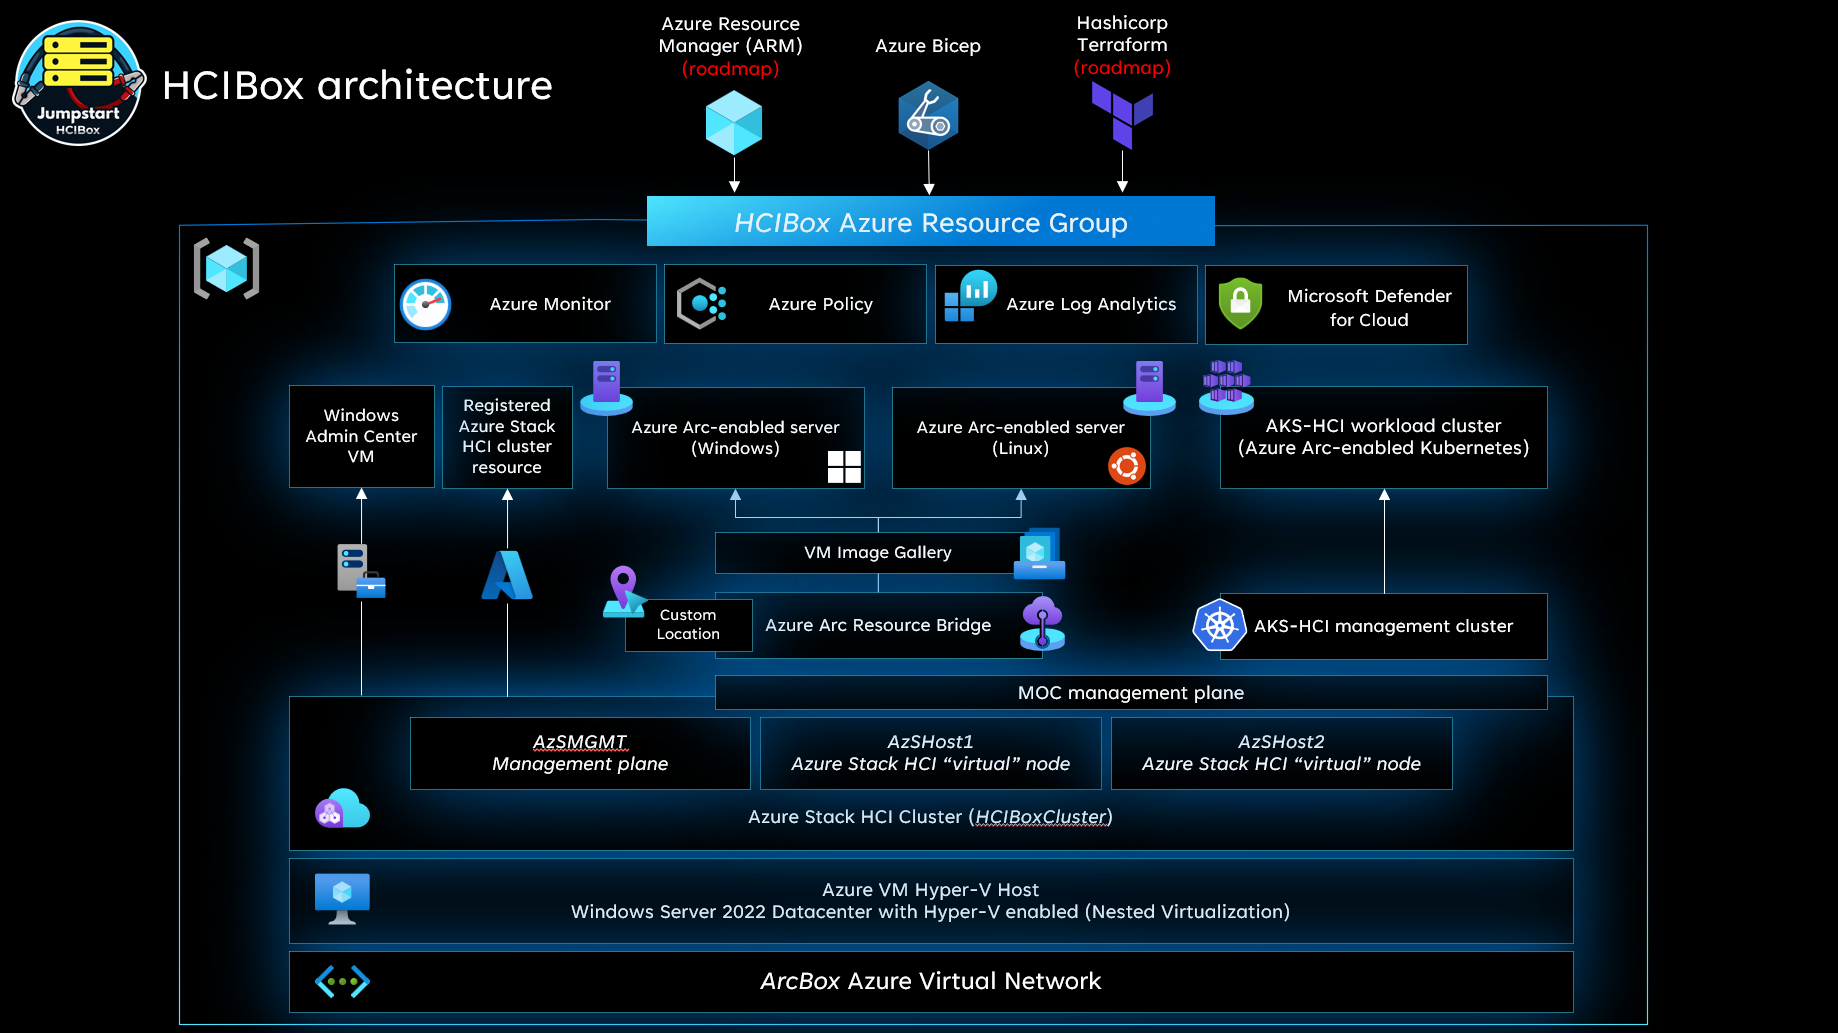
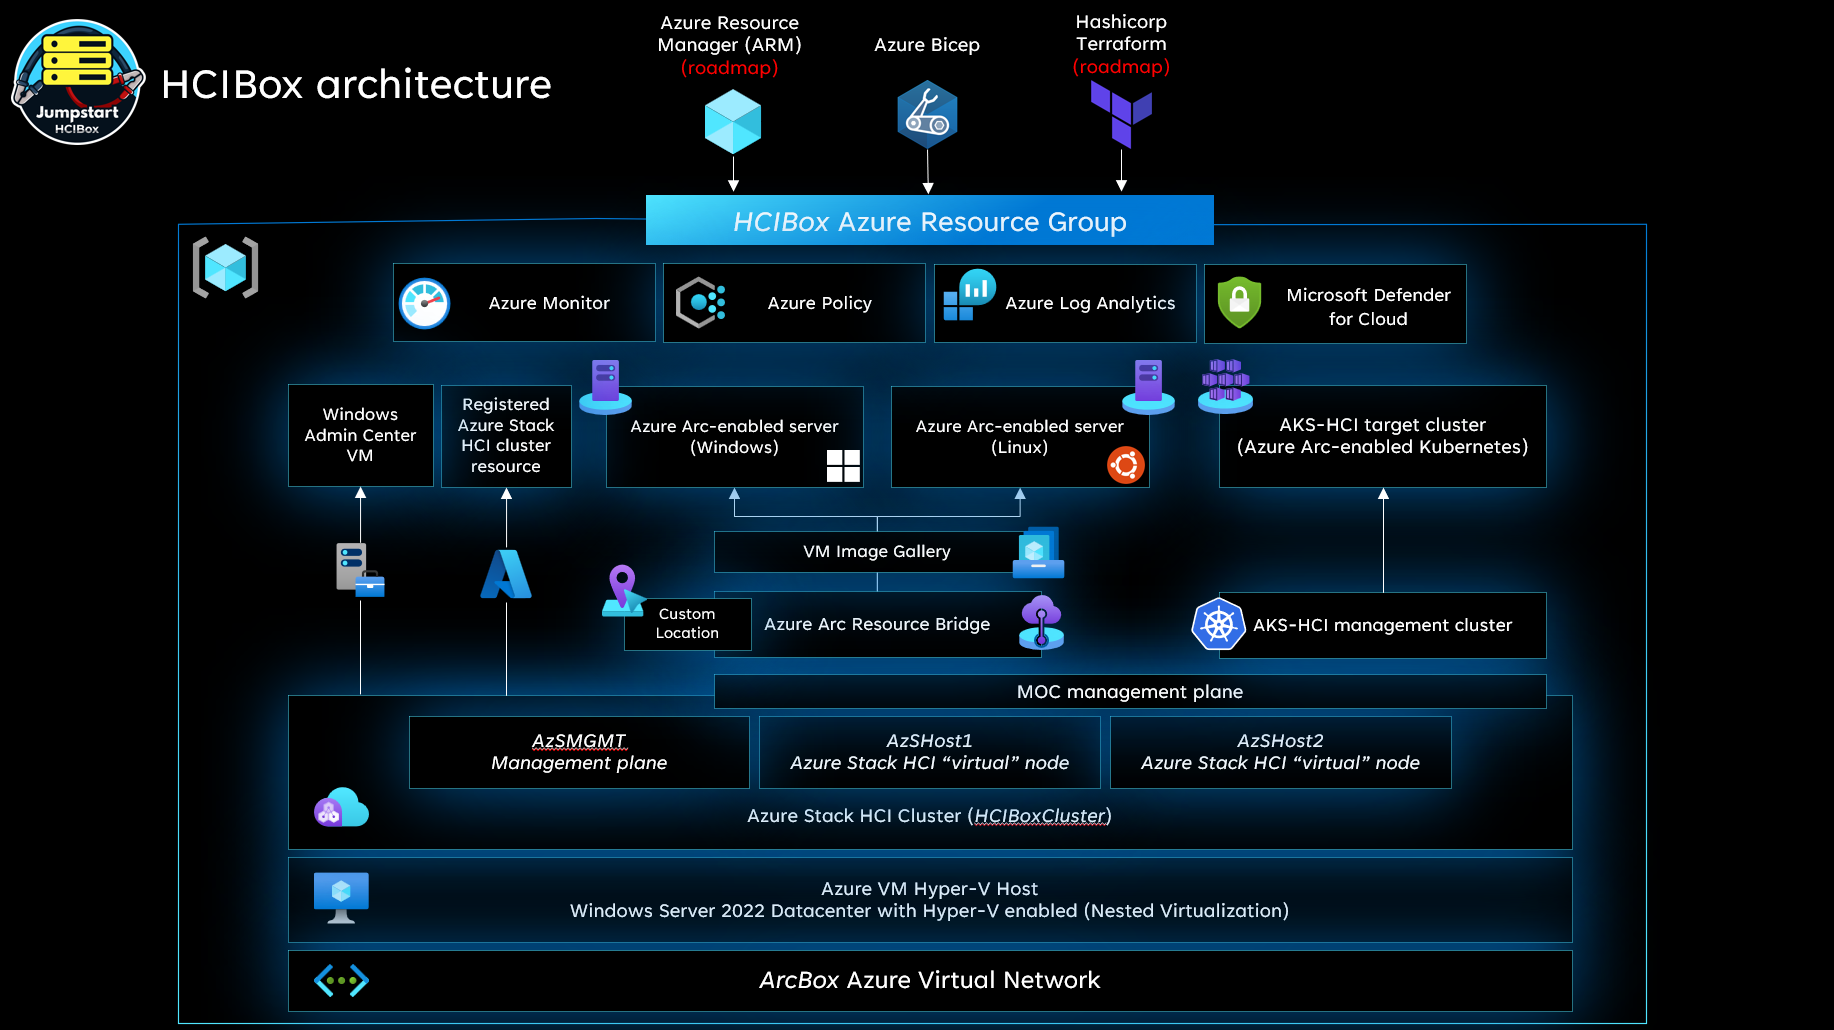
docs and fixes

diff --git a/docs/azure_stack_hci/hcibox/_index.md b/docs/azure_stack_hci/hcibox/_index.md
@@ -23,25 +23,21 @@ HCIBox is a turnkey solution that provides a complete sandbox for exploring Azur
 
 ### 2-node Azure Stack HCI cluster
 
-HCIBox automatically provisions and configures a two-node Azure Stack HCI cluster. HCIBox simulates physical hardware by using nested virtualization with Hyper-V running on an Azure Virtual Machine. This Hyper-V host provisions three guest virtual machines: one Hyper-V host (AzSMGMT) and two Azure Stack HCI nodes (AzSHost1, AzSHost2)
+HCIBox automatically provisions and configures a two-node Azure Stack HCI cluster. HCIBox simulates physical hardware by using nested virtualization with Hyper-V running on an Azure Virtual Machine. This Hyper-V host provisions three guest virtual machines: two Azure Stack HCI nodes (AzSHost1, AzSHost2), and one nested Hyper-V host (AzSMGMT). AzSMGMT itself hosts three guest VMs: a Windows Admin Center gateway server, a domain controller, and a Routing and Remote Access Server acting as a BGP router (RRAS).
 
 ![HCIBox nested virtualization](./nested_virtualization.png)
 
+### Azure Arc Resource BridgeHybrid Virtual Machine Management
+
+HCIBox installs and configures Azure Arc Resource Bridge. This allows full virtual machine lifecycle management from Azure portal or CLI. As part of this configuration, HCIBox also deploys two gallery images (Windows Server 2019 and Ubuntu). 
+
+![HCIBox nested virtualization](./arc_resource_bridge.png)
+
 ### AKS on HCI
 
-<img src="./k8s.png" width="250" alt="K8s diagram">
+HCIBox includes Azure Kubernetes Services on HCI (AKS-HCI). As part of the deployment automation, HCIBox configures AKS-HCI infrastructure including a management cluster. It then creates a target, or "workload", cluster (HCIBox-AKS-$randomguid).
 
-ArcBox deploys one single-node Rancher K3s cluster running on an Azure virtual machine. This cluster is then connected to Azure as an Azure Arc-enabled Kubernetes resource (_ArcBox-K3s_).
-
-### Azure Arc-enabled data services
-
-ArcBox deploys one single-node Rancher K3s cluster (_ArcBox-CAPI-MGMT_), which is then transformed to a [Cluster API](https://cluster-api.sigs.k8s.io/user/concepts.html) management cluster using the Cluster API Provider Azure(CAPZ), and a workload cluster is deployed onto the management cluster. The Azure Arc-enabled data services and data controller are deployed onto this workload cluster via a PowerShell script that runs when first logging into _ArcBox-Client_ virtual machine.
-
-<img src="./dataservices2.png" width="400" alt="Data services diagram">
-
-### Hybrid Unified Operations
-
-ArcBox deploys several management and operations services that work with ArcBox's Azure Arc resources. These resources include an an Azure Automation account, an Azure Log Analytics workspace with the Update Management solution, an Azure Monitor workbook, Azure Policy assignments for deploying Log Analytics agents on Windows and Linux Azure Arc-enabled servers, Azure Policy assignment for adding tags to resources, and a storage account used for staging resources needed for the deployment automation.
+<img src="./aks_hci.png" width="250" alt="AKS-HCI diagram">
 
 ![ArcBox unified operations diagram](./unifiedops.png)
 
